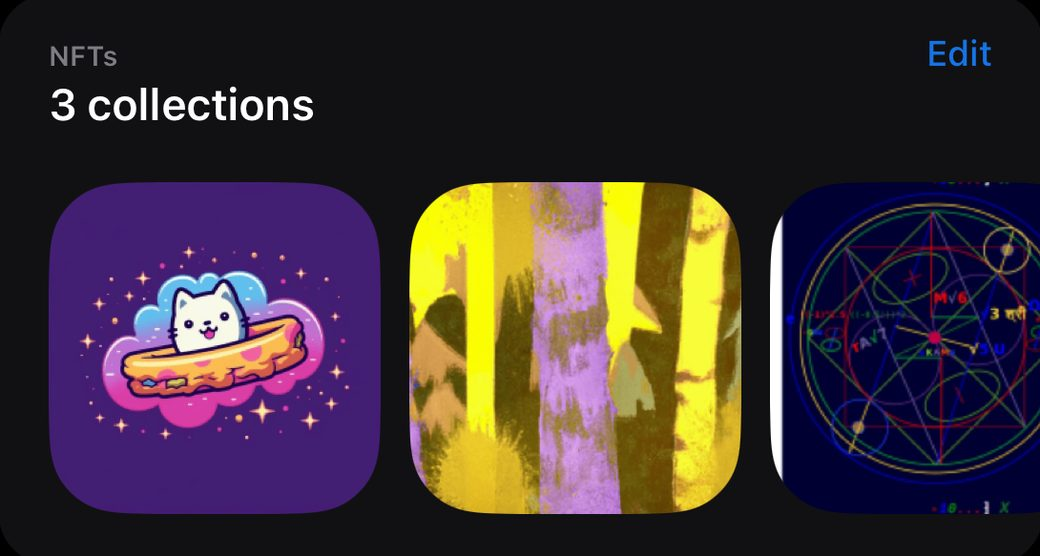
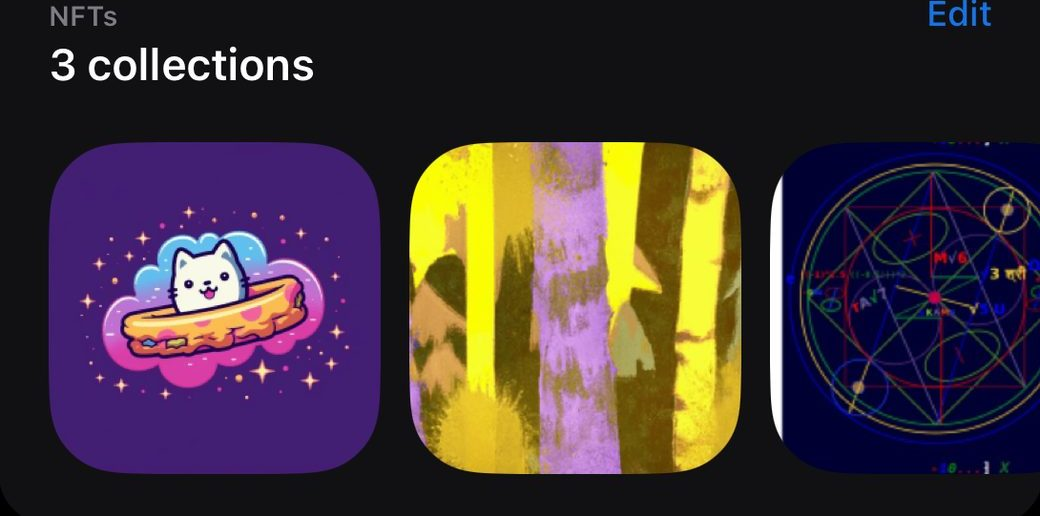
The pictures lose their headers, the boxes lose their subtext
Every crop is retrimmed to drop the card's own header band: the footer title
names the box now, so the label inside the picture was the same words twice.
The subtext under each box goes with it — the title says what it is and the
picture says the rest.

Lending drops its Spark row. That row was the one monogram fallback left in
any picture on the page (the app bundles no Spark mark, so `AssetMark` draws
"SP"), and a box whose whole point is real brand icons should not lead with
letters. Aave and Morpho draw their real marks; Spark stays in the chips,
where it is a name rather than a missing asset.

Image URLs are versioned now — the crops changed under stable filenames, and
a returning browser was serving yesterday's uncropped ones.

diff --git a/website/wallet.html b/website/wallet.html
@@ -9,7 +9,7 @@
 <meta property="og:description" content="Everything the Wallet reads: EVM, Bitcoin, Solana and Apple Card. Read-only, always.">
 <meta property="og:type" content="website">
 <link rel="icon" href="icons/casberi-octopus.png">
-<link rel="stylesheet" href="styles.css?v=202608222340">
+<link rel="stylesheet" href="styles.css?v=202608222355">
 </head>
 <body>
 
@@ -59,99 +59,84 @@
     <div class="w-grid">
 
       <div class="w-cell">
-        <div class="w-shotbox"><img src="flow/viz-balance.jpg" alt="Balance: one total across every watched wallet, with its curve." loading="lazy"></div>
+        <div class="w-shotbox"><img src="flow/viz-balance.jpg?v=202608222355" alt="Balance: one total across every watched wallet, with its curve." loading="lazy"></div>
         <h3>Balance</h3>
-        <p class="say">One total across every watched wallet.</p>
       </div>
 
       <div class="w-cell">
-        <div class="w-shotbox"><img src="flow/viz-holdings.jpg" alt="What you hold: every token, sized by what it is worth." loading="lazy"></div>
+        <div class="w-shotbox"><img src="flow/viz-holdings.jpg?v=202608222355" alt="What you hold: every token, sized by what it is worth." loading="lazy"></div>
         <h3>Holdings</h3>
-        <p class="say">Every token, sized by what it is worth.</p>
       </div>
 
       <div class="w-cell">
-        <div class="w-shotbox"><img src="flow/viz-flow.jpg" alt="Where it moved: money in and out since you started watching, banded by counterparty." loading="lazy"></div>
+        <div class="w-shotbox"><img src="flow/viz-flow.jpg?v=202608222355" alt="Where it moved: money in and out since you started watching, banded by counterparty." loading="lazy"></div>
         <h3>Flow map</h3>
-        <p class="say">In and out, banded by counterparty.</p>
       </div>
 
       <div class="w-cell">
-        <div class="w-shotbox"><img src="flow/viz-protocols2.jpg" alt="In protocols: deposited across Uniswap and Hyperliquid, and a risk strip." loading="lazy"></div>
+        <div class="w-shotbox"><img src="flow/viz-protocols2.jpg?v=202608222355" alt="In protocols: deposited across Uniswap and Hyperliquid, and a risk strip." loading="lazy"></div>
         <h3>In protocols</h3>
-        <p class="say">What sits outside the wallet, and what wants a look.</p>
       </div>
 
       <div class="w-cell">
-        <div class="w-shotbox"><img src="flow/viz-lending.jpg" alt="Lending: Aave, Spark and Morpho with health factors and amounts." loading="lazy"></div>
+        <div class="w-shotbox"><img src="flow/viz-lending.jpg?v=202608222355" alt="Lending: Aave, Spark and Morpho with health factors and amounts." loading="lazy"></div>
         <h3>Lending</h3>
-        <p class="say">Collateral, debt and health, per protocol.</p>
-        <div class="w-chips"><span class="w-chip">Aave</span><span class="w-chip">Spark</span><span class="w-chip">Morpho</span></div>
+        <div class="w-chips"><span class="w-chip">Aave</span><span class="w-chip">Morpho</span><span class="w-chip">Spark</span></div>
       </div>
 
       <div class="w-cell">
-        <div class="w-shotbox"><img src="flow/viz-liquidation.jpg" alt="Distance to liquidation: every borrow on one axis, from comfortable to liquidation." loading="lazy"></div>
+        <div class="w-shotbox"><img src="flow/viz-liquidation.jpg?v=202608222355" alt="Distance to liquidation: every borrow on one axis, from comfortable to liquidation." loading="lazy"></div>
         <h3>Distance to liquidation</h3>
-        <p class="say">Every borrow on one axis.</p>
       </div>
 
       <div class="w-cell">
-        <div class="w-shotbox"><img src="flow/viz-liquidity.jpg" alt="Liquidity: four Uniswap positions, one of them idle and out of range." loading="lazy"></div>
+        <div class="w-shotbox"><img src="flow/viz-liquidity.jpg?v=202608222355" alt="Liquidity: four Uniswap positions, one of them idle and out of range." loading="lazy"></div>
         <h3>Liquidity</h3>
-        <p class="say">Concentrated liquidity, and whether it is earning.</p>
         <div class="w-chips"><span class="w-chip">Uniswap v3</span><span class="w-chip">v4</span></div>
       </div>
 
       <div class="w-cell">
-        <div class="w-shotbox"><img src="flow/viz-melt.jpg" alt="Locked: 12,977 AERO with 41% of its voting power left, and a permanent lock that never decays." loading="lazy"></div>
+        <div class="w-shotbox"><img src="flow/viz-melt.jpg?v=202608222355" alt="Locked: 12,977 AERO with 41% of its voting power left, and a permanent lock that never decays." loading="lazy"></div>
         <h3>Locked</h3>
-        <p class="say">What is locked, and how far it melted.</p>
         <div class="w-chips"><span class="w-chip">Aerodrome</span></div>
       </div>
 
       <div class="w-cell">
-        <div class="w-shotbox anchor-top"><img src="flow/viz-connected.jpg" alt="Connected: which of your addresses have transacted with the same counterparties." loading="lazy"></div>
+        <div class="w-shotbox anchor-top"><img src="flow/viz-connected.jpg?v=202608222355" alt="Connected: which of your addresses have transacted with the same counterparties." loading="lazy"></div>
         <h3>Connected addresses</h3>
-        <p class="say">Counterparties that met more than one of your wallets.</p>
       </div>
 
       <div class="w-cell">
-        <div class="w-shotbox anchor-top"><img src="flow/viz-nftpicker.jpg" alt="Show which NFTs: a picker of every collection the wallet holds." loading="lazy"></div>
+        <div class="w-shotbox anchor-top"><img src="flow/viz-nftpicker.jpg?v=202608222355" alt="Show which NFTs: a picker of every collection the wallet holds." loading="lazy"></div>
         <h3>NFT picker</h3>
-        <p class="say">Nothing loads until you name a collection.</p>
       </div>
 
       <div class="w-cell">
-        <div class="w-shotbox"><img src="flow/viz-nfts.jpg" alt="NFTs: three picked collections on the shelf." loading="lazy"></div>
+        <div class="w-shotbox"><img src="flow/viz-nfts.jpg?v=202608222355" alt="NFTs: three picked collections on the shelf." loading="lazy"></div>
         <h3>NFT shelf</h3>
-        <p class="say">Only the ones you picked. Airdropped spam never shows.</p>
       </div>
 
       <div class="w-cell">
-        <div class="w-shotbox"><img src="flow/viz-needsyou.jpg" alt="Needs you: a dispute, two transactions short a signature, and an overdue reminder." loading="lazy"></div>
+        <div class="w-shotbox"><img src="flow/viz-needsyou.jpg?v=202608222355" alt="Needs you: a dispute, two transactions short a signature, and an overdue reminder." loading="lazy"></div>
         <h3>Needs you</h3>
-        <p class="say">Approvals, signatures and proofs with a clock on them.</p>
         <div class="w-chips"><span class="w-chip">Permit2</span><span class="w-chip">EIP-7702</span><span class="w-chip">ERC-4337</span></div>
       </div>
 
       <div class="w-cell">
-        <div class="w-shotbox anchor-top"><img src="flow/viz-safe.jpg" alt="Safe: your signature is needed on one transaction, with each pending transaction's signature count." loading="lazy"></div>
+        <div class="w-shotbox anchor-top"><img src="flow/viz-safe.jpg?v=202608222355" alt="Safe: your signature is needed on one transaction, with each pending transaction's signature count." loading="lazy"></div>
         <h3>Safe</h3>
-        <p class="say">Co-sign from a device key &mdash; never spend alone.</p>
         <div class="w-chips"><span class="w-chip own">multisig</span><span class="w-chip">2 of 3</span></div>
       </div>
 
       <div class="w-cell">
-        <div class="w-shotbox anchor-top"><img src="flow/viz-privacypools.jpg" alt="Privacy Pools: a deposit needs your proof, with the four states and how long each has waited." loading="lazy"></div>
+        <div class="w-shotbox anchor-top"><img src="flow/viz-privacypools.jpg?v=202608222355" alt="Privacy Pools: a deposit needs your proof, with the four states and how long each has waited." loading="lazy"></div>
         <h3>Privacy Pools</h3>
-        <p class="say">Shielded deposits, and the clear-to-withdraw moment.</p>
         <div class="w-chips"><span class="w-chip">Privacy Pools</span><span class="w-chip">Railgun</span></div>
       </div>
 
       <div class="w-cell">
-        <div class="w-shotbox anchor-top"><img src="flow/viz-cards.jpg" alt="Apple Wallet: this month's spend by merchant, and a subscription that went up 30%." loading="lazy"></div>
+        <div class="w-shotbox anchor-top"><img src="flow/viz-cards.jpg?v=202608222355" alt="Apple Wallet: this month's spend by merchant, and a subscription that went up 30%." loading="lazy"></div>
         <h3>Cards</h3>
-        <p class="say">The one source with a merchant name.</p>
         <div class="w-chips"><span class="w-chip">Apple Wallet</span><span class="w-chip">Gnosis Pay</span><span class="w-chip">Privacy.com</span><span class="w-chip">ether.fi Cash</span><span class="w-chip">CardPointers</span><span class="w-chip">Peer</span></div>
       </div>
 

diff --git a/website/docs.html b/website/docs.html
@@ -9,7 +9,7 @@
 <meta property="og:description" content="What Casberi is, why it exists, and how to use it.">
 <meta property="og:type" content="article">
 <link rel="icon" href="icons/casberi-octopus.png">
-<link rel="stylesheet" href="styles.css?v=202608222340">
+<link rel="stylesheet" href="styles.css?v=202608222355">
 <style>
   /* ---------- docs page styles (page-scoped) ---------- */
   /* SF Rounded for display type — ui-rounded resolves to SF Rounded on Apple

diff --git a/website/index.html b/website/index.html
@@ -11,8 +11,8 @@
 <meta property="og:type" content="website">
 <meta name="base:app_id" content="6a87baa6ddcaae5e9cdba4d6">
 <!-- og:image needs a hosted PNG (1200x630) — add when the domain is live -->
-<link rel="stylesheet" href="styles.css?v=202608222340">
-<script src="app.js?v=202608222340" defer></script>
+<link rel="stylesheet" href="styles.css?v=202608222355">
+<script src="app.js?v=202608222355" defer></script>
 </head>
 <body>
 
